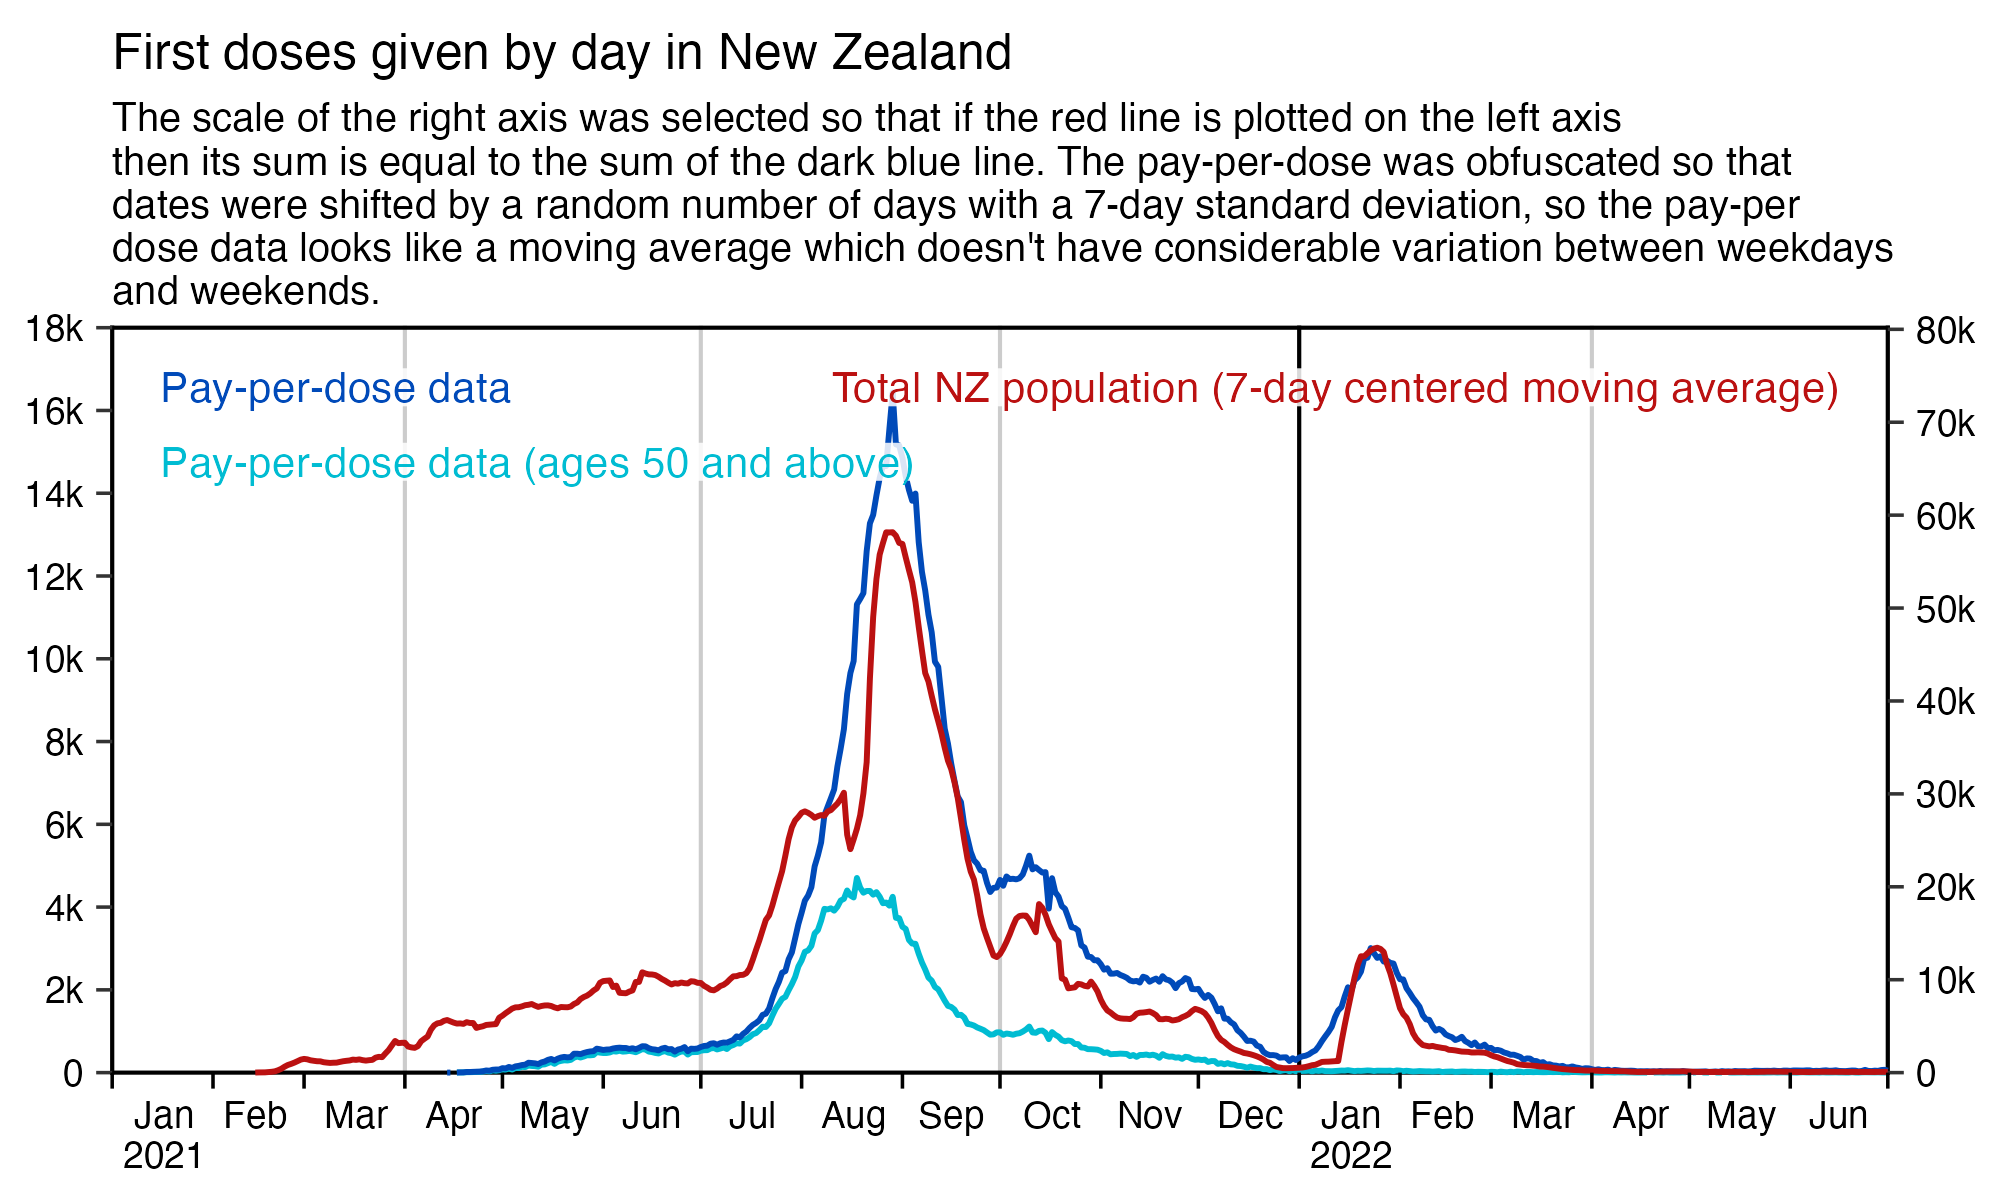
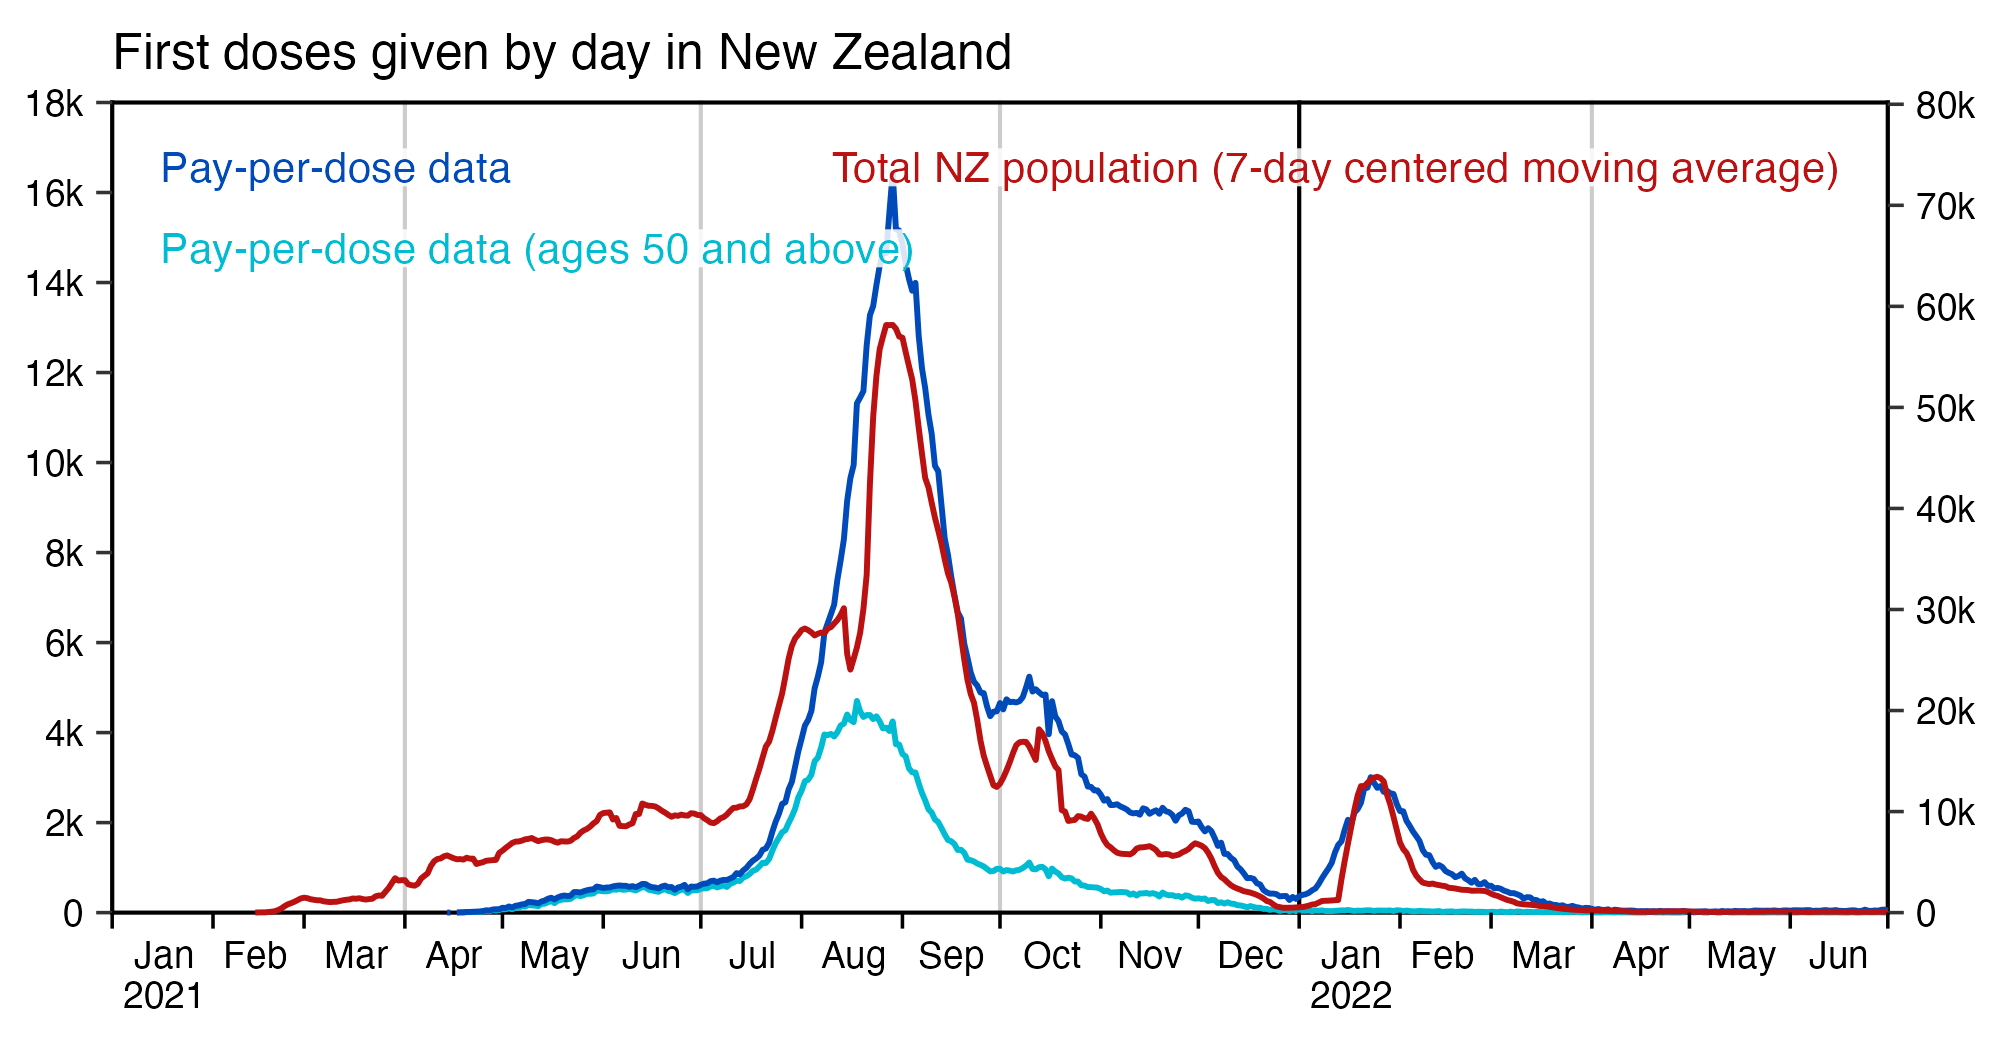
a

diff --git a/moar.html b/moar.html
@@ -3981,11 +3981,12 @@ system(&quot;qlmanage -p 1.png&amp;&gt;/dev/null&quot;)</pre>
 <div class="width14">
 <img src="i/moar-vaet2-2.png">
 </div>
-<p>The highest number of people received the first dose in August. Doses 2 to 5 also seem to have a similar <span class="quote">&quot;late vaccinee effect&quot;</span> where people who received the dose during the later part of the rollout peak later had higher excess mortality than people who received the dose during the earlier part of the rollout peak. But on the other hand there's even higher excess mortality among the immunocompromised and vulnerable people who received the dose before the main part of the rollout started.</p>
-<p>So there seems to be a distribution where first a small number of the earliest vaccinees have high mortality, second a large number of early vaccinees have low mortality, and third a large number of late vaccinees have high mortality. And the proportion of doses that are missing from the NZ data gets lower over time, so even though the earliest vaccinees in the first group are overrepresented, early vaccinees in the second group are also underrepresented in June and July, the late vaccinees in the third group are overrepresented from September onwards:</p>
+<p>The highest number of people received the first dose in August. Doses 2 to 5 also seem to have a similar <span class="quote">&quot;late vaccinee effect&quot;</span> where people who received the dose during the later part of the rollout peak subsequently had higher excess mortality than people who received the dose during the earlier part of the rollout peak.</p>
+<p>So there seems to be a distribution where first a small number of the earliest vaccinees have high mortality, second a large number of early vaccinees have low mortality, and third a large number of late vaccinees have high mortality. And the proportion of doses that are missing from the NZ data gets lower over time, so even though the earliest vaccinees in the first group are overrepresented, the early vaccinees in the second group are also underrepresented in June and July, and the late vaccinees in the third group are overrepresented from September onwards:</p>
 <div class="width7">
 <img src="i/moar-vaet2-3.png">
 </div>
+<p>In the plot above I selected the scale of the right axis so that if the red line is plotted on the left axis then its sum is equal to the sum of the dark blue line. The pay-per-dose data was obfuscated so that dates were shifted by a random number of days with a 7-day standard deviation, so the pay-per dose data looks like a moving average which doesn't have considerable variation between weekdays and weekends. So therefore I only took a moving average of the red line but not the blue lines.</p>
 <pre>vma=\(x,y){o=outer(1:length(x),y,&quot;+&quot;);rowMeans(matrix(x[ifelse(o&gt;=1&amp;o&lt;=length(x),o,NA)],length(x)),na.rm=T)}
 
 vax=read.csv(&quot;https://raw.githubusercontent.com/OpenVaet/nz_data/main/raw_data/covid_19_data_portal%20-%20doses%20-%20data.csv&quot;)
@@ -4031,9 +4032,8 @@ geom_label(data=leg2,aes(x=x,y=y,label=label),fill=alpha(&quot;white&quot;,.85),
 scale_x_date(limits=c(xstart,xend),breaks=xbreak,labels=xlab,expand=expansion(0))+
 scale_y_continuous(limits=c(0,yend),breaks=ybreak,expand=expansion(0),labels=kim,sec.axis=sec_axis(trans=~./secmult,breaks=seq(0,yend2,ystep2),labels=kim))+
 coord_cartesian(clip=&quot;off&quot;)+
-labs(x=NULL,y=NULL,title=&quot;First doses given by day in New Zealand&quot;,subtitle=&quot;The scale of the right axis was selected so that if the red line is plotted on the left axis then its sum is equal to the sum of the dark blue line. The pay-per-dose was obfuscated so that dates were shifted by a random number of days with a 7-day standard deviation, so the pay-per dose data looks like a moving average which doesn&#39;t have considerable variation between weekdays and weekends.&quot;|&gt;stringr::str_wrap(96))+
+labs(x=NULL,y=NULL,title=&quot;First doses given by day in New Zealand&quot;)+
 theme(
-  ## axis.text.x=element_text(angle=90,vjust=.5,hjust=1),
   axis.text=element_text(size=6.7,color=&quot;black&quot;),
   axis.title=element_text(size=8,color=color1[1]),
   axis.title.y.right=element_text(color=color2,margin=margin(0,0,0,5)),
@@ -4044,8 +4044,7 @@ theme(
   panel.grid.major=element_blank(),
   panel.background=element_rect(fill=&quot;white&quot;),
   plot.margin=margin(.3,.3,.3,.3,&quot;lines&quot;),
-  plot.title=element_text(size=9,margin=margin(.2,0,.5,0,&quot;lines&quot;)),
-  plot.subtitle=element_text(size=7.2,margin=margin(0,0,.4,0,&quot;lines&quot;))
+  plot.title=element_text(size=9,margin=margin(.2,0,.5,0,&quot;lines&quot;))
 )
 ggsave(&quot;1.png&quot;,width=5,height=3,dpi=400)</pre>
 <script>
